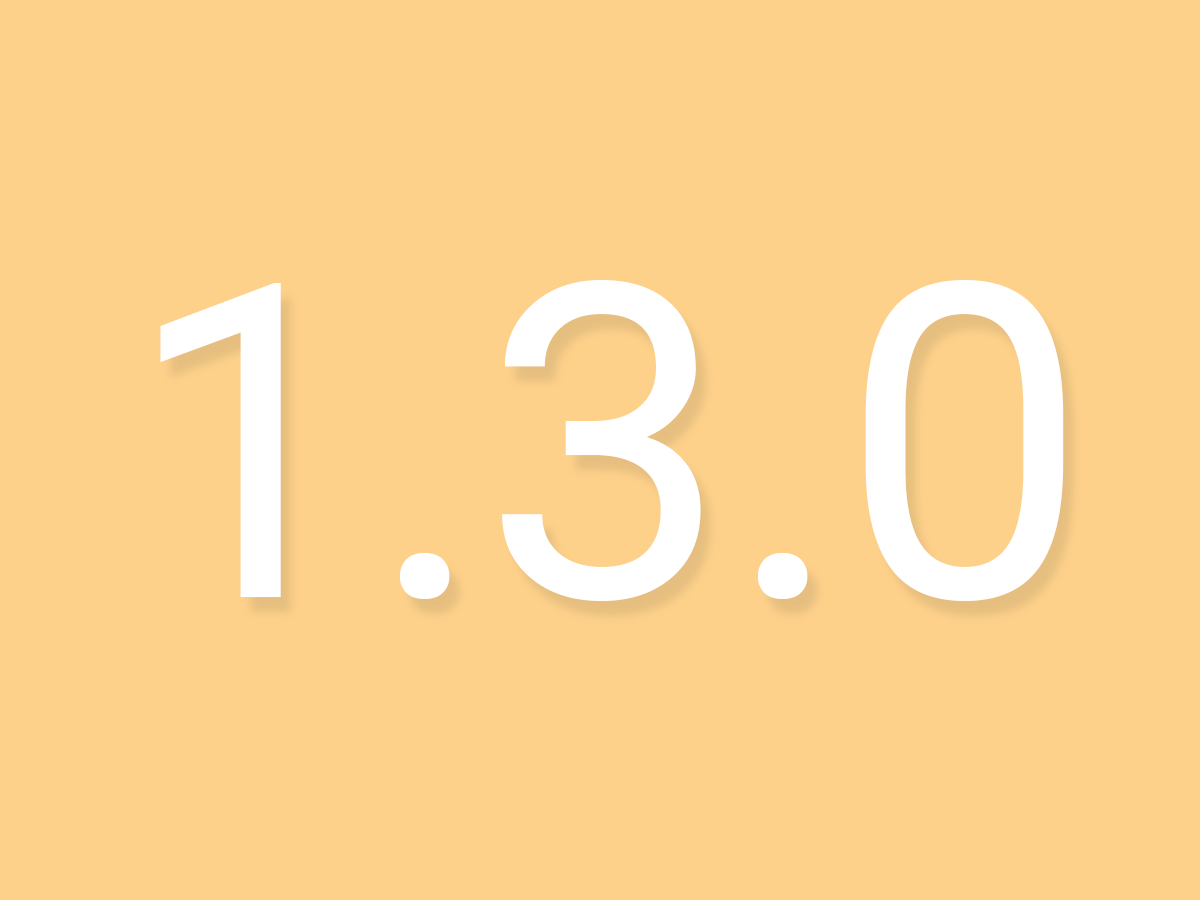
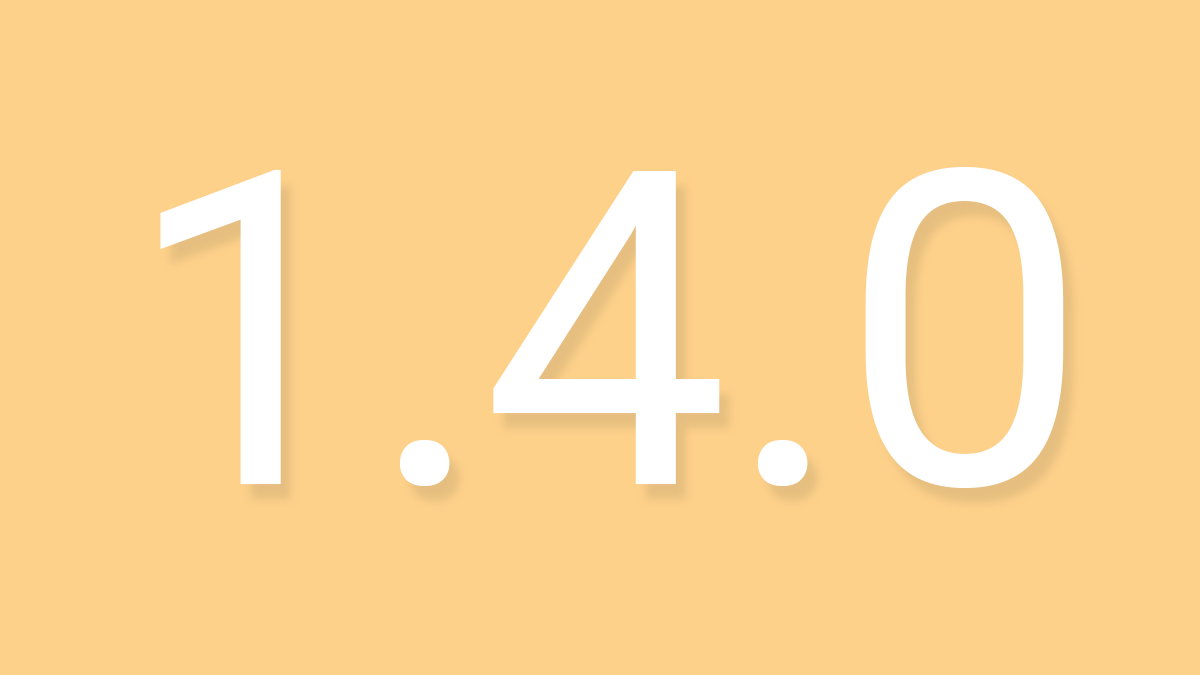
Bump to 1.4.0

diff --git a/style.css b/style.css
@@ -7,7 +7,7 @@
  * Requires at least:   6.0
  * Tested up to:        6.1
  * Requires PHP:        7
- * Version:             1.3.0
+ * Version:             1.4.0
  * Text Domain:         mdb
  * Domain Path:         /languages
  *

diff --git a/functions.php b/functions.php
@@ -23,7 +23,7 @@ error_reporting( E_ALL ^ E_NOTICE );
 
 /** Variables and definitions */
 
-const THEME_VERSION = '1.3.0';     // The theme's version
+const THEME_VERSION = '1.4.0';     // The theme's version
 const THEME_DOMAIN  = 'mdb';       // The theme's text domain
 
 

diff --git a/README.MD b/README.MD
@@ -14,6 +14,9 @@ __Tested up to:__ WordPress 6.1
 
 
 ### main
+
+
+## 1.4.0
 * New: Namespace (#25).
 * Improve: Neutralize .php-class side effect in admin pages (#31).
 * Improve: Replace flat button style with navigation-faux-anchor style (see #20).
